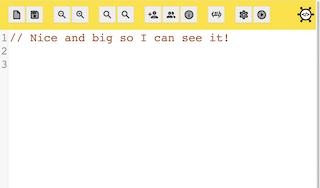
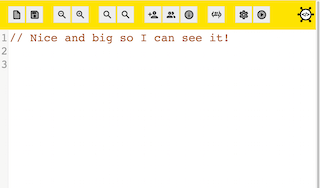
compress images and add dark theme image, remove unneeded preferences

Changed region(s): [[0.0, 0.0, 1.0, 0.1596]]

diff --git a/www/codehort.html b/www/codehort.html
@@ -88,10 +88,10 @@
         <img src="./img/small-zoom.png" border="0">
       </button>
       <button onclick="changeLight(false);">
-        <img src="./img/big-zoom.png" border="0">
+        <img src="./img/dark-theme.png" border="0">
       </button>
       <p></p>
-      <div id="lightTest" class="lightTest">Definately dark.</div>
+      <div id="lightTest" class="lightTest">A nice and light theme!</div>
         <div class="right">
           <input type="button" name="prevBtn" id="prevBtn" value="Previous" class="buttonClick buttonClickOk" onclick="display(1);">
           <input type="button" name="nextBtn" id="nextBtn" value="Next" class="buttonClick buttonClickOk" onclick="display(3);">
@@ -378,22 +378,13 @@
               </tr>
               <tr>
                 <td class="labeled right">Show Splash Screen</td>
-                <td class="labeled">
-                  <label class="switch">
-                    <input type="checkbox" id="splashSwitch" checked onchange="splashChange();">
-                    <span class="slider round" data-on="On" data-off="Off"></span>
-                  </label>
+                  <td class="labeled">
+                    <label class="switch">
+                      <input type="checkbox" id="splashSwitch" checked onchange="splashChange();">
+                      <span class="slider round" data-on="On" data-off="Off"></span>
+                    </label>
+                  </td>
                 </td>
-              </tr>
-              <tr>
-                <td class="labeled right">Dark Theme</td>
-                <td class="labeled">
-                  <label class="switch">
-                    <input type="checkbox" id="lightSwitch" onchange="lightChange();">
-                    <span class="slider round" data-on="On" data-off="Off"></span>
-                  </label>
-                </td>
-                <td class="labeled right">Light Theme</td>
               </tr>
             </table>
           </td>
@@ -411,23 +402,18 @@
                 <td class="labeled left">%</td>
               </tr>
               <tr>
-                <td class="labeled right">name</td>
+                <td class="labeled right">Dark Theme</td>
                 <td class="labeled">
-                  <label class="switch">
-                    <input type="checkbox">
-                    <span class="slider round"></span>
-                  </label>
+                  <center>
+                    <label class="switch">
+                      <input type="checkbox" id="lightSwitch" onchange="lightChange();">
+                      <span class="slider round" data-on="On" data-off="Off"></span>
+                    </label>
+                  </center>
                 </td>
+                <td class="labeled right">Light Theme</td>
               </tr>
-              <tr>
-                <td class="labeled right">name</td>
-                <td class="labeled">
-                  <label class="switch">
-                    <input type="checkbox">
-                    <span class="slider round"></span>
-                  </label>
-                </td>
-              </tr>
+
             </table>
           </td>
         </tr>

diff --git a/www/js/codehort.js b/www/js/codehort.js
@@ -59,7 +59,7 @@ function createEditor(click) {
   // if you have connected to a previous session try to connect now?
   if (sessionId && !splashScreen && !click) {
     // attempt to connect to this session id
-    console.log(sessionId);
+    //console.log(sessionId);
     joinSessionId(sessionId, false);
   }
 }
@@ -68,7 +68,7 @@ function connectFirepad() {
   //// Get Firebase Database reference.
   if (firepadRef == null) {
     firepadRef = getFirepad();
-    console.log("new firepad");
+    //console.log("new firepad");
   }
 
   if (firepadRef != null) {

diff --git a/www/js/mobbing.js b/www/js/mobbing.js
@@ -134,11 +134,11 @@ function getCurrentUsers() {
     users.push(name);
   }
   users.sort();
-  console.log("list of users: " + users.length);
-  for (var i=0; i < users.length; i++) {
-    console.log("   " + users[i]);
-  }
-  console.log("end of list");
+  //console.log("list of users: " + users.length);
+  //for (var i=0; i < users.length; i++) {
+  //  console.log("   " + users[i]);
+  //}
+  //console.log("end of list");
   return users;
 }
 

diff --git a/www/js/theme.js b/www/js/theme.js
@@ -11,9 +11,11 @@ function changeLight(beLight) {
   // set the style of the div to be either light or dark to show the user the change
   if (light) {
       //element.style...
+      document.getElementById("lightTest").innerHTML = "A nice and light theme!";
   }
   else {
       //element.style...
+      document.getElementById("lightTest").innerHTML = "Definately dark theme.";
   }
 }
 

diff --git a/www/css/codehort-dark.css b/www/css/codehort-dark.css
@@ -66,6 +66,7 @@ td.right {
 
 td.labeled {
   padding: 5px;
+  padding-top: 15px;
 }
 
 div.right {

diff --git a/www/css/codehort-light.css b/www/css/codehort-light.css
@@ -56,6 +56,7 @@ td.right {
 
 td.labeled {
   padding: 5px;
+  padding-top: 15px;
 }
 
 div.right {
